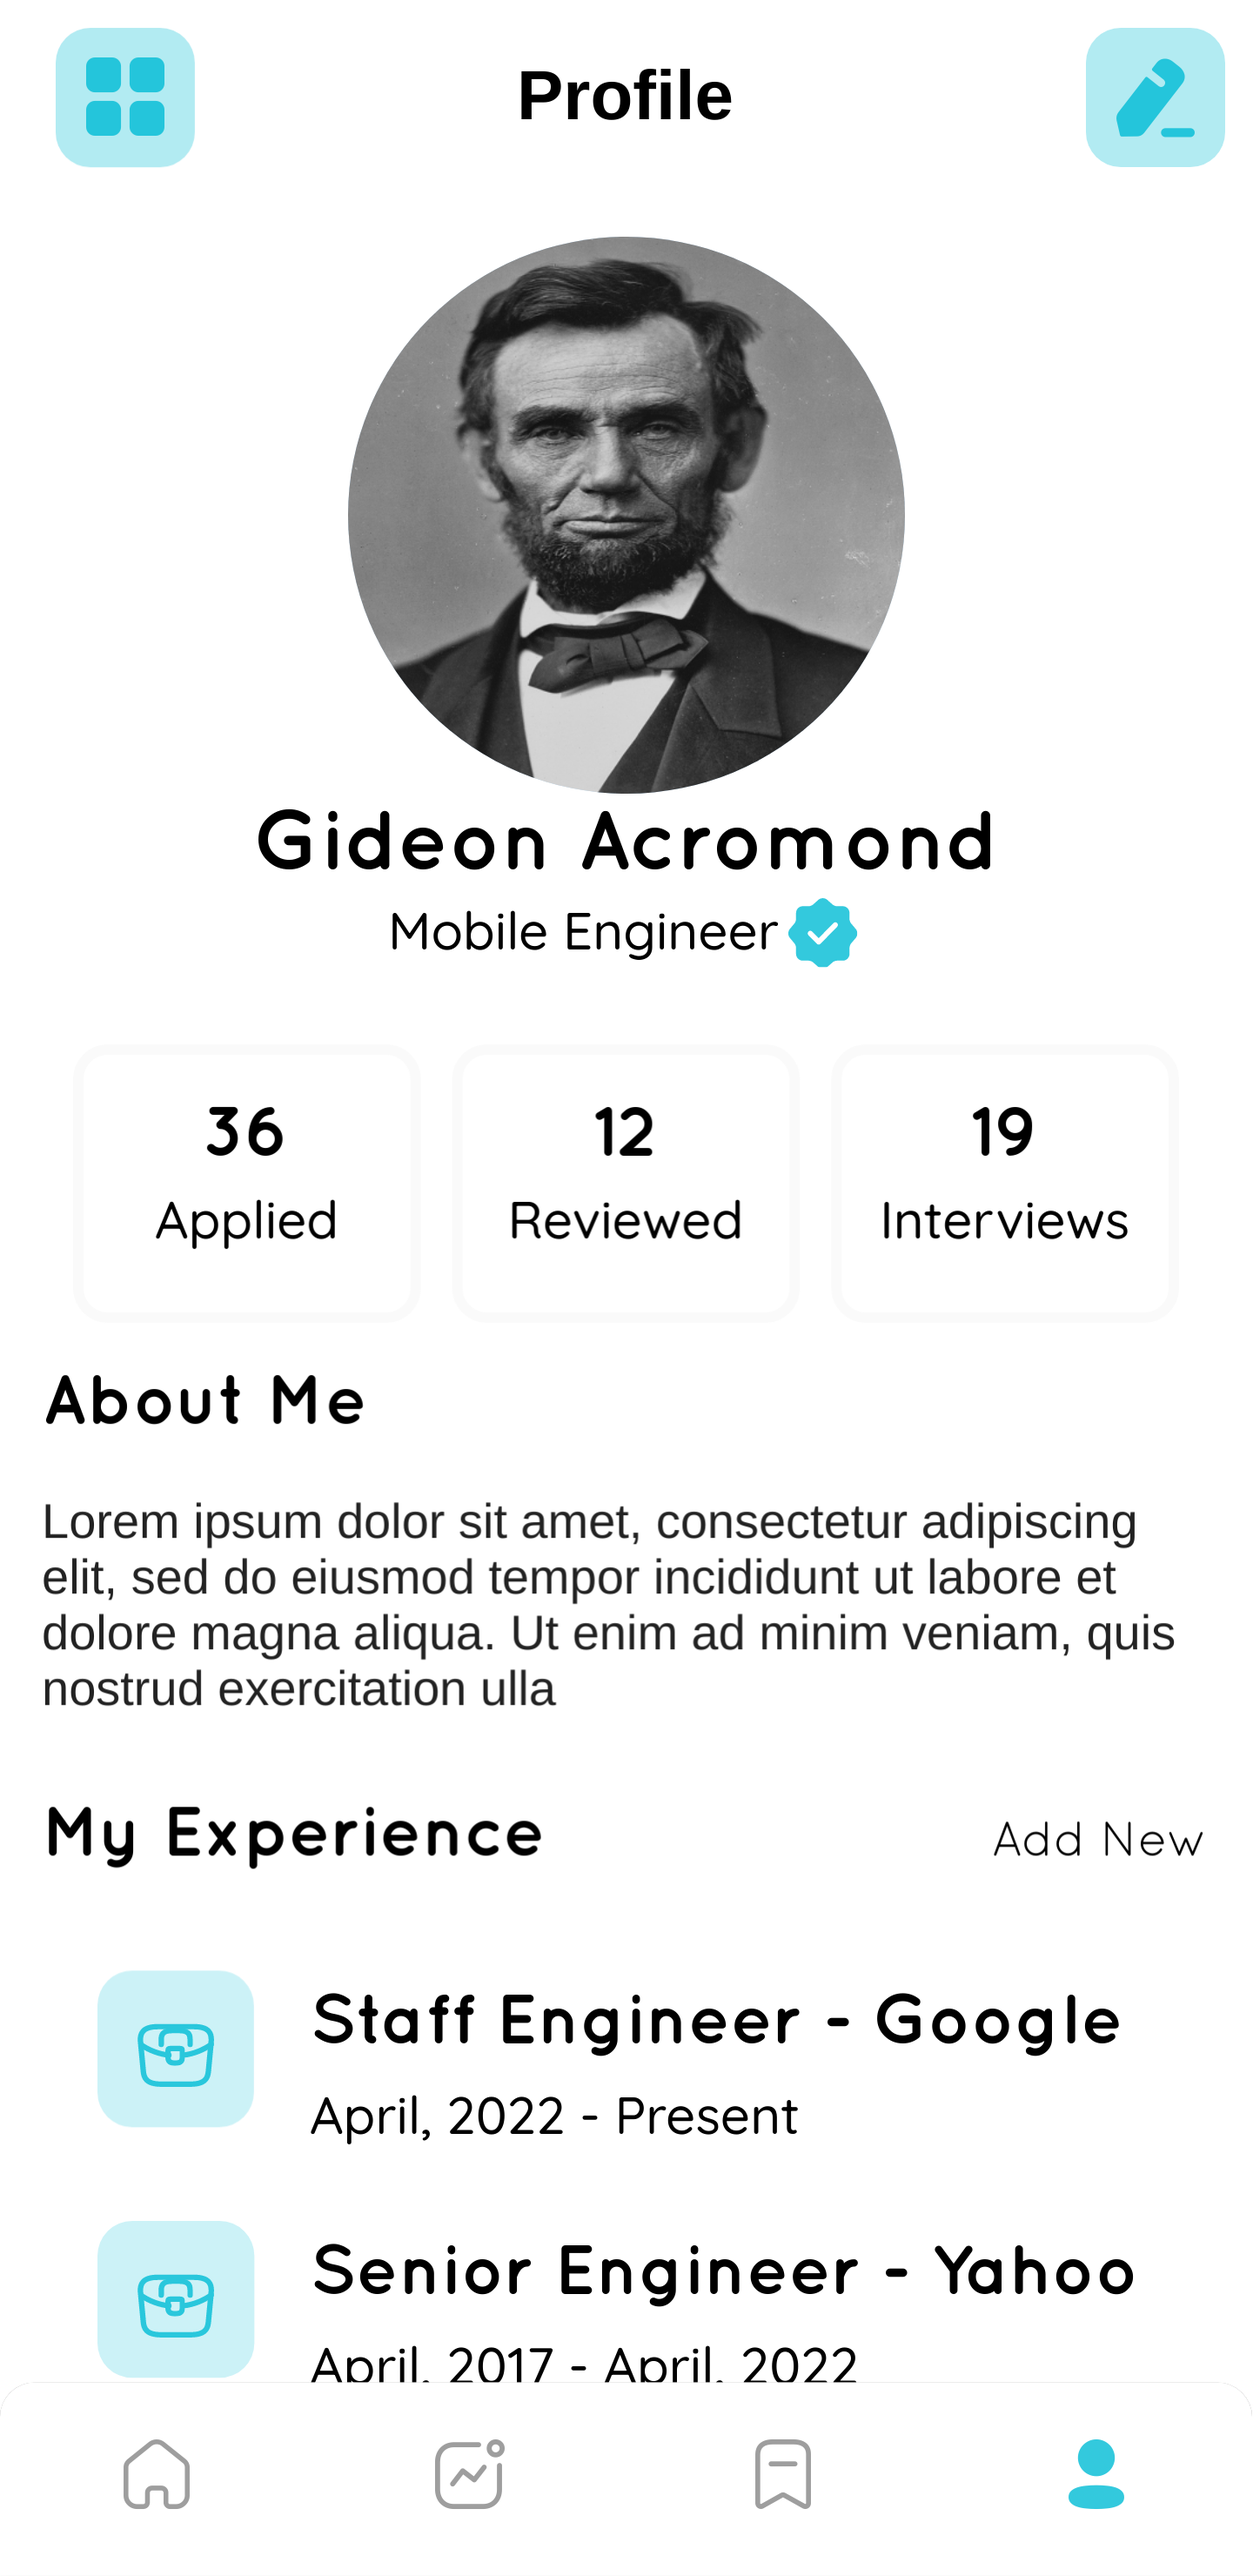
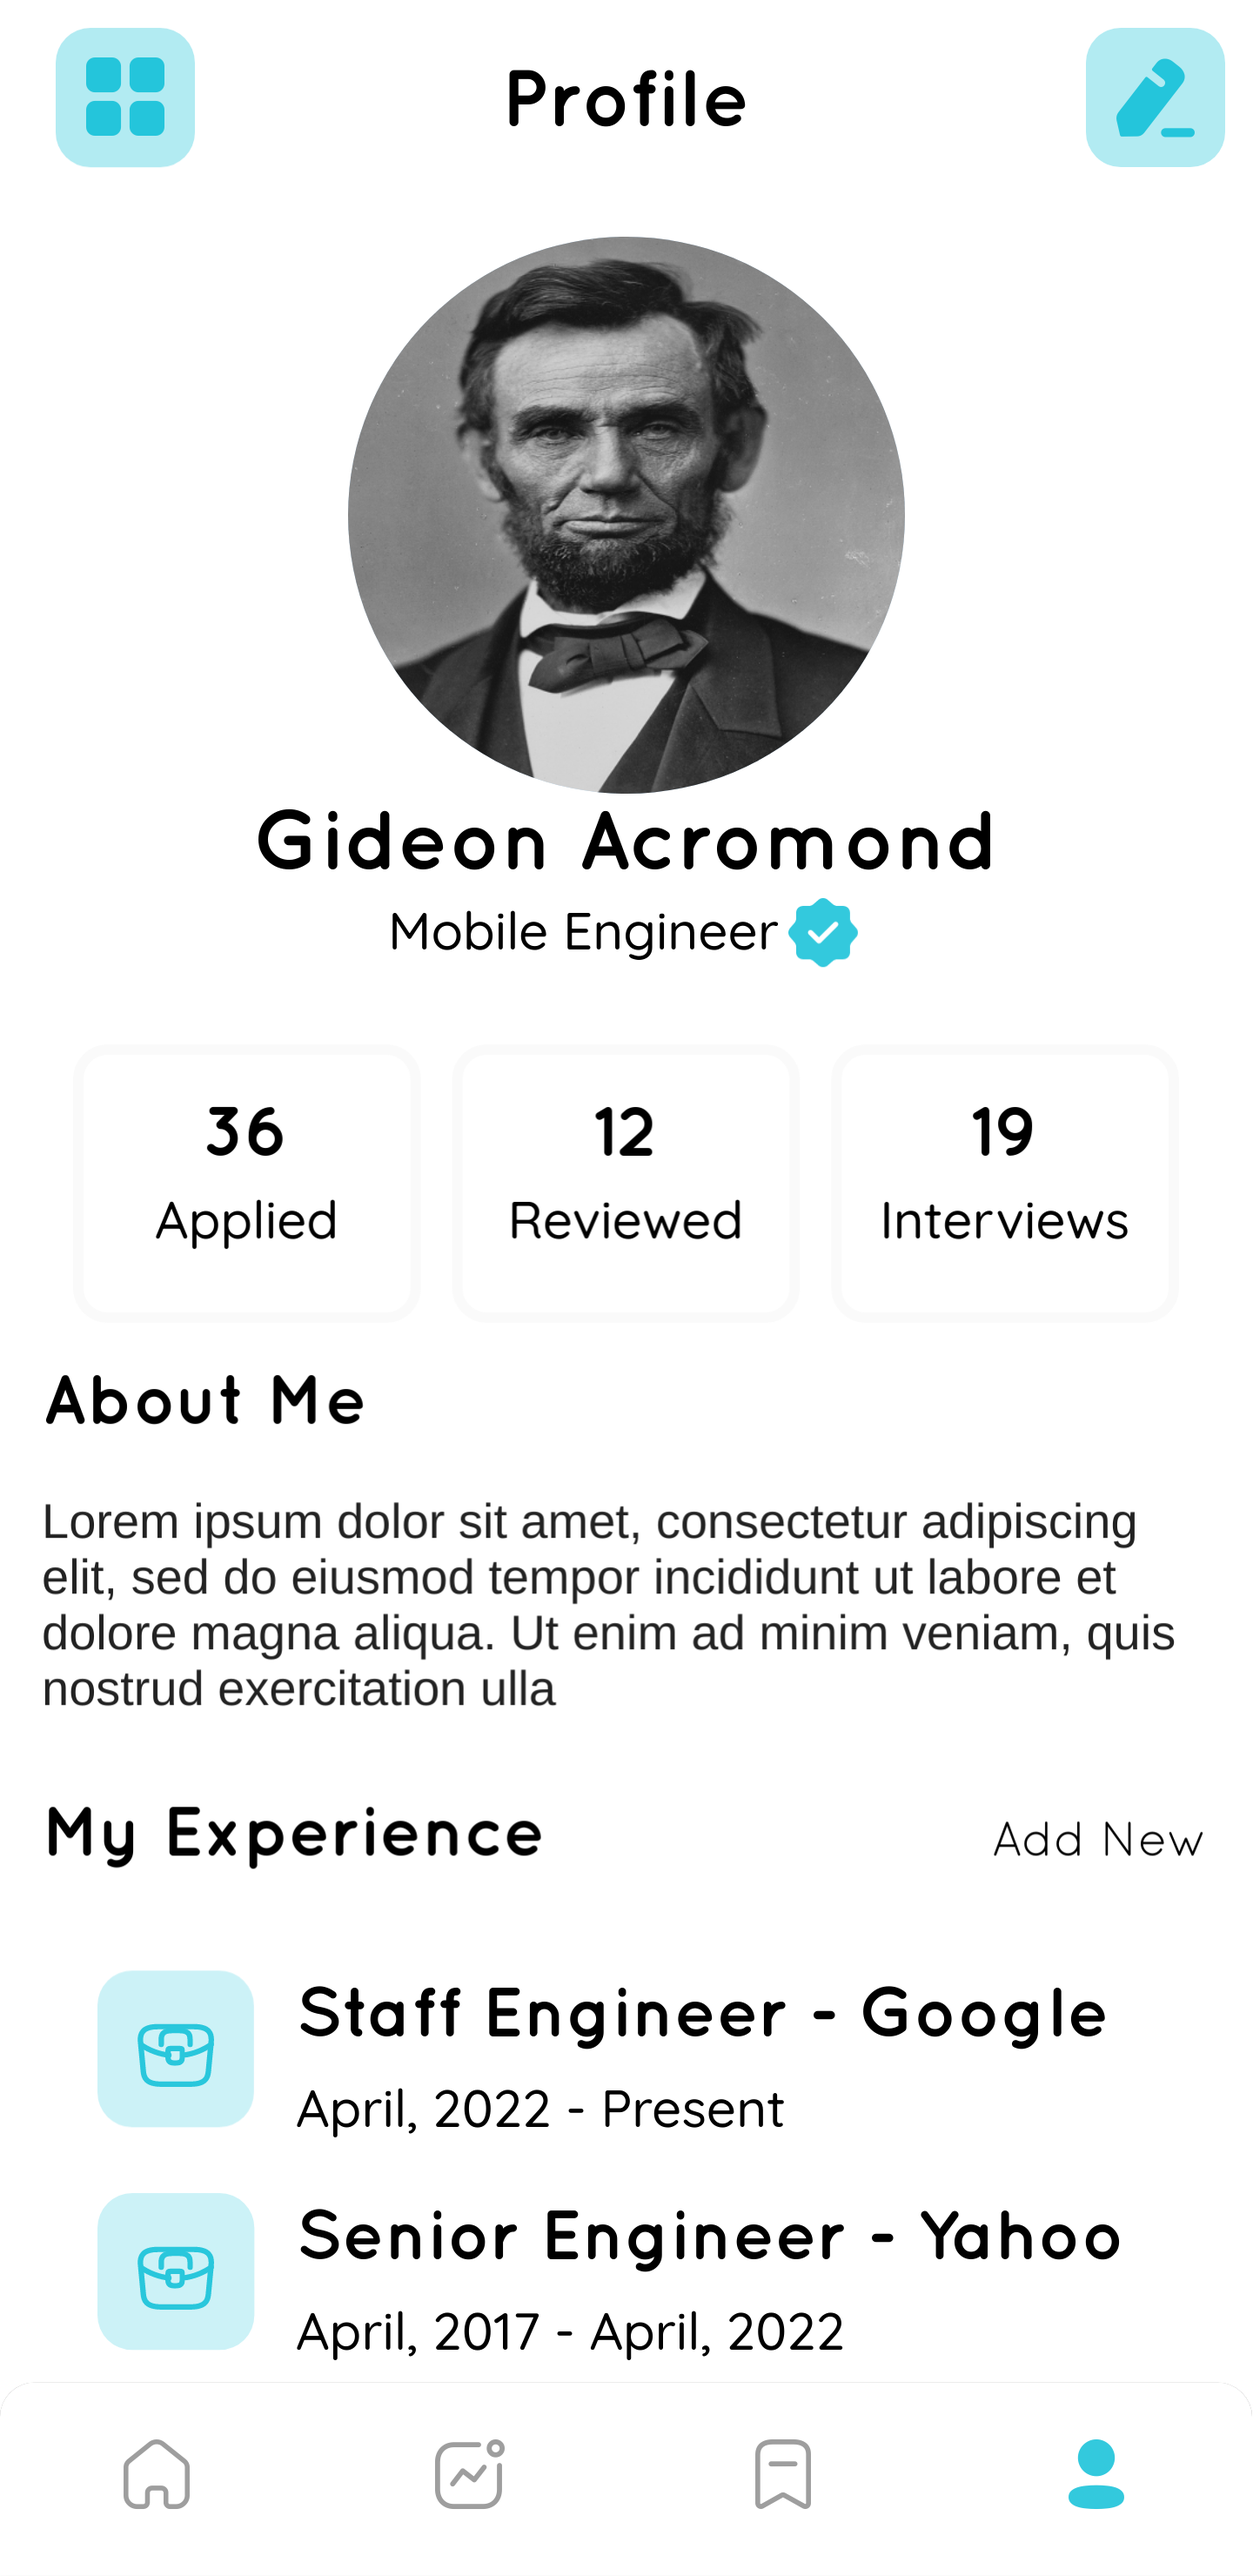
image modification

diff --git a/jobfinder_ui/lib/src/components/segmented_control.dart b/jobfinder_ui/lib/src/components/segmented_control.dart
@@ -19,24 +19,24 @@ class SegmentedSlider extends StatefulWidget {
 class _SegmentedSliderState extends State<SegmentedSlider> {
   static int initialValue = 0;
 
-  final Map<int, Widget> section = <int, Widget>{
-    0: Text(
-      'Requirements',
-      textAlign: TextAlign.center,
-      style: const TextStyle().copyWith(
-          color: Colors.grey[800], fontSize: 17, fontWeight: FontWeight.bold),
-    ),
-    1: Text('About',
-        textAlign: TextAlign.center,
-        style: TextStyle(
-            color: Colors.grey[800],
-            fontSize: 17,
-            fontWeight: FontWeight.bold)),
-  };
-
   @override
   Widget build(BuildContext context) {
     final textStyle = Theme.of(context).textTheme.headline2!;
+
+    final Map<int, Widget> section = <int, Widget>{
+      0: Text(
+        'Requirements',
+        textAlign: TextAlign.center,
+        style: textStyle.copyWith(
+            fontWeight: FontWeight.w800, fontSize: 17, color: Colors.grey[900]),
+      ),
+      1: Text(
+        'About',
+        textAlign: TextAlign.center,
+        style: textStyle.copyWith(
+            fontWeight: FontWeight.w800, fontSize: 17, color: Colors.grey[900]),
+      ),
+    };
 
     List<Widget> sectionContent = [
       ListView.builder(

diff --git a/jobfinder_ui/lib/src/components/custom_appbar.dart b/jobfinder_ui/lib/src/components/custom_appbar.dart
@@ -25,6 +25,8 @@ class CustomAppBar extends StatelessWidget implements PreferredSizeWidget {
 
   @override
   Widget build(BuildContext context) {
+    final textStyle = Theme.of(context).textTheme.headline1;
+
     return Padding(
       padding: const EdgeInsets.all(8.0),
       child: AppBar(
@@ -32,7 +34,10 @@ class CustomAppBar extends StatelessWidget implements PreferredSizeWidget {
           onTap: onPrefixTap,
           child: AppBarIcon(icon: prefixIcon),
         ),
-        title: Text(title),
+        title: Text(
+          title,
+          style: textStyle!.copyWith(fontWeight: FontWeight.w800, fontSize: 23),
+        ),
         actions: showSuffixIcon ? [AppBarIcon(icon: suffixIcon!)] : [],
         centerTitle: true,
       ),
